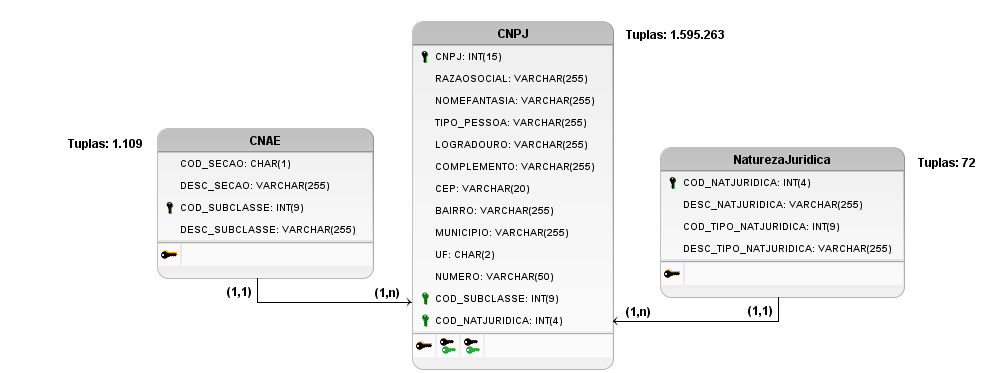
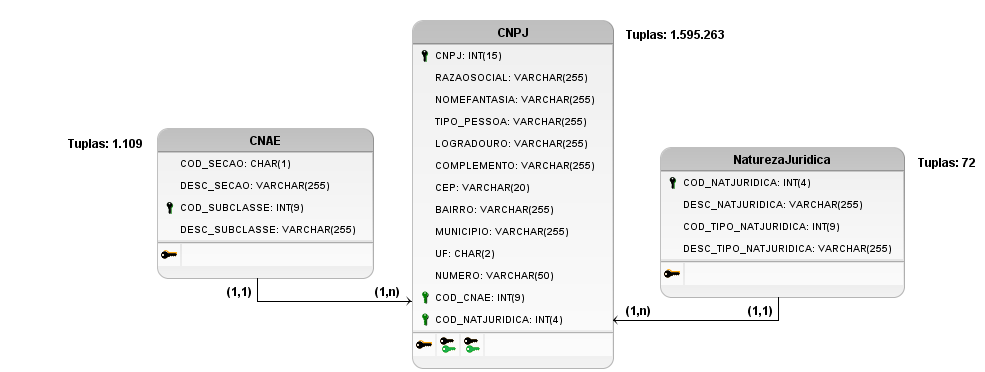
Update README.md e nova versão do CreateInserts.py

diff --git a/Data/CreateInserts.py b/Data/CreateInserts.py
@@ -1,36 +1,34 @@
 import pandas as pd
-# import csv
 
-file_path = r'202412_CNPJ.csv'
+file_paths = {
+    'CNAE': r'202412_CNAE.csv',                           # Substitua pelo caminho real do arquivo CSV CNAE
+    'NaturezaJuridica': r'202412_NaturezaJuridica.csv',   # Substitua pelo caminho real do arquivo CSV NaturezaJuridica
+    'CNPJ': r'202412_CNPJ.csv'                            # Substitua pelo caminho real do arquivo CSV CNPJ
+}
 
-# with open(file_path, 'r', encoding='latin1') as file:
-#     reader = csv.reader(file)
-#     for i, row in enumerate(reader, start=1):
-#         if len(row) != 4:  # Substitua "4" pelo número esperado de colunas
-#             print(f"Problema na linha {i}: {row}")
+def remove_apostrophes(value):
+    if isinstance(value, str):
+        return value.replace("'", "")                       # Remove o apóstrofo
+    return value
 
-try:
-    data = pd.read_csv(file_path, encoding='latin1', delimiter=';', quotechar='"')
-    for _, row in data.iterrows():
-        print(row)
-except Exception as e:
-    print(f"Erro ao ler o arquivo: {e}")
-
-# try:
-#     data = pd.read_csv(file_path, encoding='latin1', delimiter=',')
-# except Exception as e:
-#     print(f"Erro ao ler o arquivo: {e}")
-
-
-# Gerar os comandos INSERT
-table_name = "CNPJ"
 sql_inserts = []
 
-for _, row in data.iterrows():
-    values = "', '".join(map(str, row.values))
-    sql = f"INSERT INTO {table_name} VALUES ('{values}');"
-    sql_inserts.append(sql)
+for table_name, file_path in file_paths.items():
+    try:
+        data = pd.read_csv(file_path, encoding='latin1', delimiter=';', quotechar='"')
+        
+        for _, row in data.iterrows():
+            # Remover apóstrofos de todos os valores da linha
+            row = row.apply(remove_apostrophes)
+            values = "', '".join(map(str, row.values))
+            sql = f"INSERT INTO {table_name} VALUES ('{values}');"
+            sql_inserts.append(sql)
+            print(f'INSERT INTO {table_name} VALUES ({values});')
 
-# Salvar os comandos em um arquivo
-with open('inserts.sql', 'w', encoding='utf-8') as file:
+    except Exception as e:
+        print(f"Erro ao ler o arquivo {file_path}: {e}")
+
+with open('Scripts/popula.sql', 'w', encoding='utf-8') as file:
     file.write("\n".join(sql_inserts))
+
+print("Arquivo SQL gerado com sucesso!")

diff --git a/README.md b/README.md
@@ -1,8 +1,23 @@
 # Database-202412-FavorecidosPJ
-Base de dados MySQL criada com base nos dados de PJs Favorecidos (dez/2024) do Portal da Transparência.
 
-## Criação dos Inserts
+Base de dados MySQL criada com base nos dados de PJs Favorecidos (dez/2024) do Portal da Transparência. Esse repositório tem como objetivo montar um banco de dados didático que se enquadre nas exigências da disciplina Sistemas de Bancos de Dados 2 da Faculdade de Ciências e Tecnologias em Engenharias da Universidade de Brasília.
+
+## Criação da Base de Dados
+
+Para montar a base de dados **202412_FavorecidosPJ** em sua máquina, será necessário acessar o [Portal da Transparência](https://portaldatransparencia.gov.br/download-de-dados/favorecidos-pj) e realizar o download dos arquivos em formato `.csv` referentes a dezembro de 2024. É importante ressaltar que arquivos de outros meses ou anos podem ter formatação diferente e não serem compatíveis com o banco modelado nesse repositório.
+
+A modelagem do banco foi elaborada a partir do cruzamento dos dados dos 3 arquivos `.csv` baixados e os diagramas DE-R (Diagrama Entidade-Relacionamento) e DLD (Diagrama Lógico de Dados) se encontram na pasta [Diagrams](./Diagrams). A modelagem atual é passível de evolução e serve como exercício para praticar a normalização de bases de dados. A pasta mencionada possui arquivos de modelagem editáveis por meio do brModelo3.
+
+De modelagem simples, a base 202412_FavorecidosPJ se classifica como de fácil entendimento, mas possui complexidade suficiente para realizar consultas avançadas, criar de índices e praticar *tunning*, por exemplo.
+
+### Scripts de Criação
+
+A pasta [Scripts](./Scripts) possui arquivos .sql responsáveis pela criação do banco de dados. Para executá-los, é necessário ter instalado em sua máquina o MySQL Workbench ou similar. Execute primeiro o scriptFisico.sql, pois ele contém a estrutura do banco de dados. Em seguida, execute o arquivo popula.sql.
+
+**Como criar o popula.sql?**
 
 O arquivo CreateInserts.py atua na geração dos inserts necessários para popular o banco.
 
-Para utilizá-lo, faça o download dos dados de presentes no Portal da Transparência (acesse [aqui](https://portaldatransparencia.gov.br/download-de-dados/favorecidos-pj)) e os coloque na pasta Data, onde o arquivo CreatInserts.py está localizado. Os dados utilizados para a criação desse repositório são de dezembro/2024. No script Python, deve-se alterar o nome do arquivo .csv lido para gerar os inserts correspondentes. Renomeie o arquivo gerado ("inserts.sql") para corresponder à tabela lida.
+Para utilizá-lo, coloque os arquivos baixados do [Portal da Transparência](https://portaldatransparencia.gov.br/download-de-dados/favorecidos-pj) e coloque o caminho para cada um deles no script CreateInserts.py. Rode o script. Ao final, será gerado o script popula.sql, na pasta [Scripts](./Scripts/). Execute o arquivo gerado no MySQL Workbench ou similar.
+
+O tamanho do arquivo será de aproximadamente 370mb e pode levar algum tempo para ser gerado. Os dados precisam ser analisados, de forma a retirar tuplas incompletas e outras incoerencias. Isso servirá como prática para consultas e execução de scripts em SQL.
